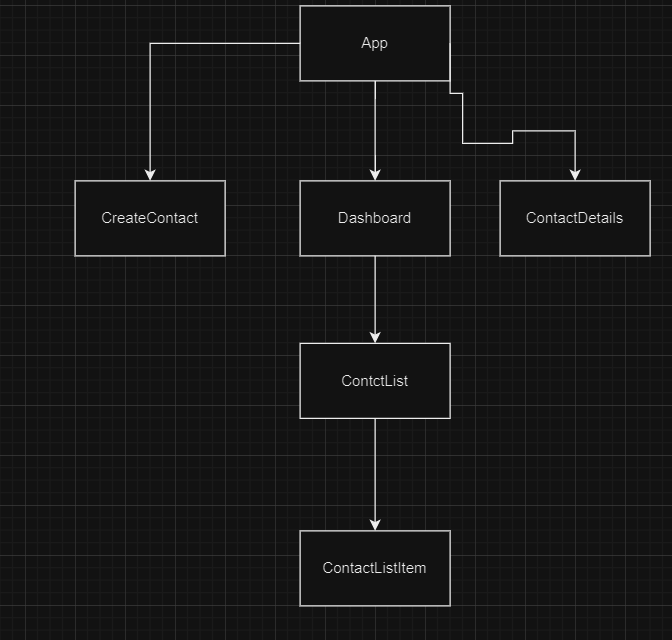
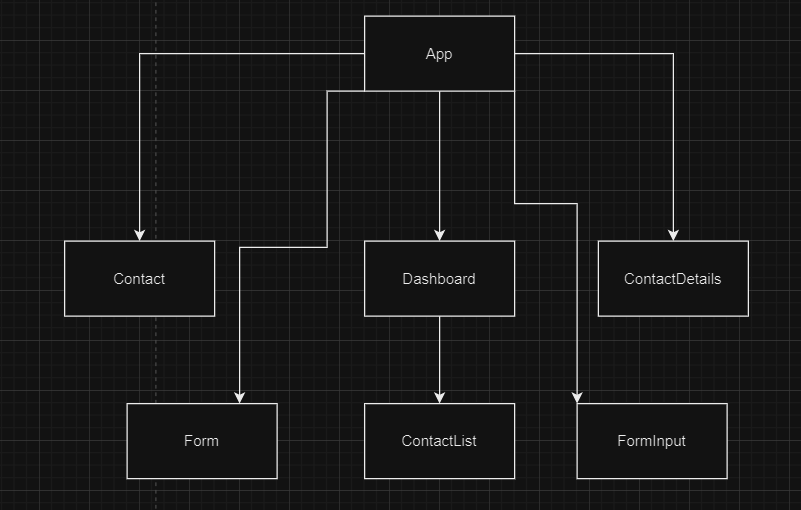
Changed

diff --git a/statemodel.md b/statemodel.md
@@ -1,8 +1,5 @@
 Dashboard:
 
-contacts: [],
-setContacts: Function,
-
 firstName: string,
 lastName: string,
 street: string,
@@ -11,16 +8,6 @@ city: string,
 ContactList:
 
 contacts: []
-
-ContactListItem:
-
-contact: {
-firstName: string,
-lastName: string,
-street: string,
-city: string,
-
-}
 
 ContactDetails:
 
@@ -33,7 +20,11 @@ city: string,
 
 }
 
-CreateContact:
+Contact: 
+firstName: string,
+lastName: string,
+
+Form:
 
 formStructure = {
     firstName: '',
@@ -44,3 +35,7 @@ formStructure = {
 
 form: formStructure,
 setForm: Function
+
+FormInput:
+
+handleChange: []
